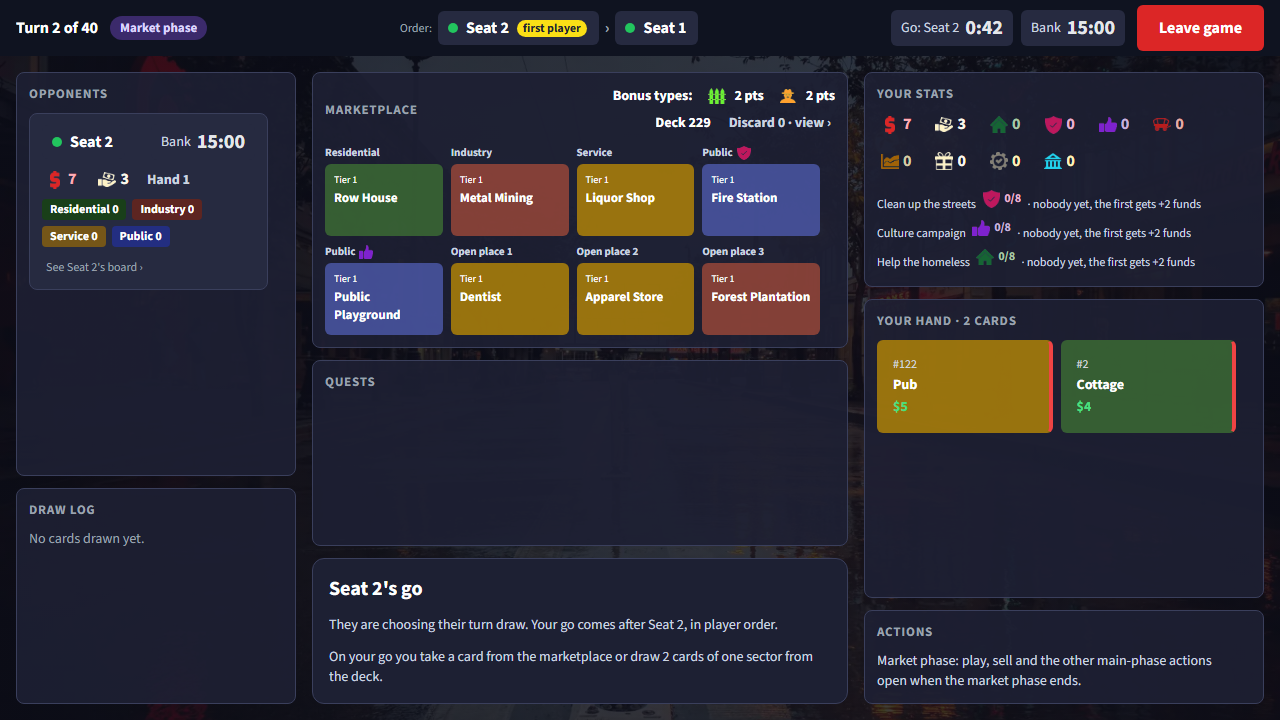
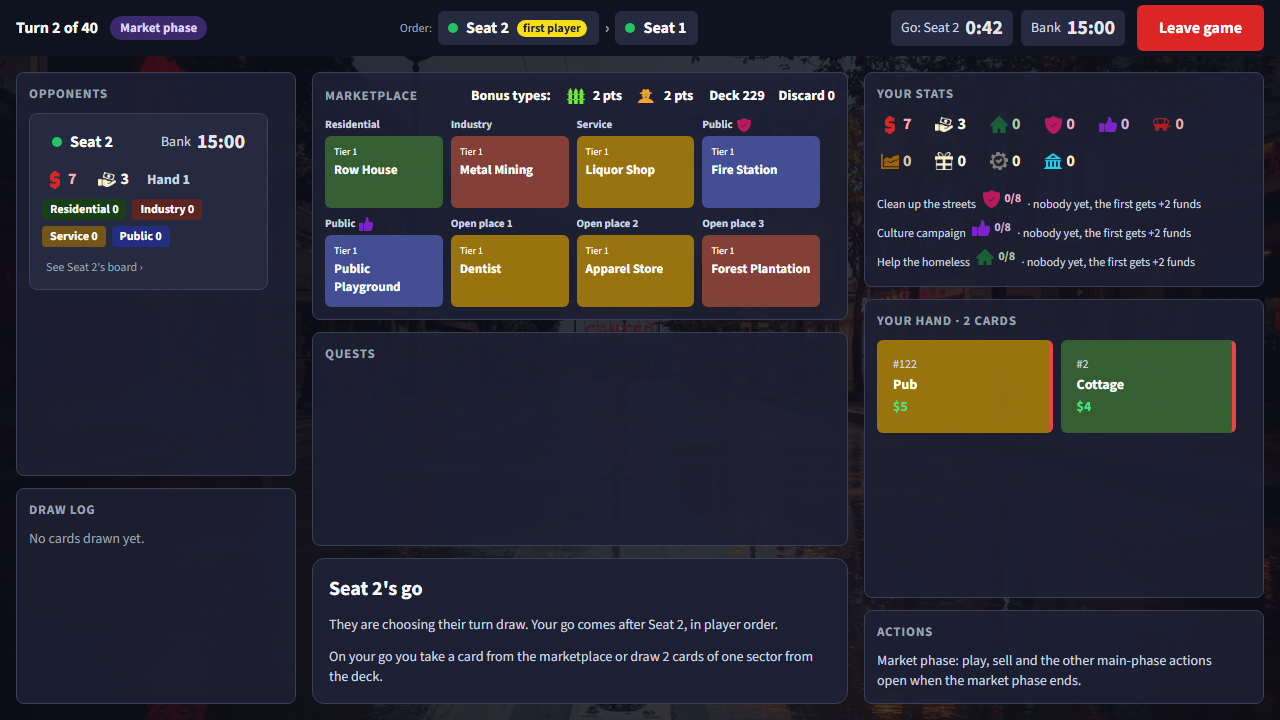
RULES: The discard pile is shown only as a number of cards (M3.2, R17.1, S4.2)

Changed region(s): [[0.2188, 0.1222, 0.6562, 0.55]]

diff --git a/e2e/turnOne.spec.ts b/e2e/turnOne.spec.ts
@@ -1,6 +1,5 @@
 import AxeBuilder from "@axe-core/playwright";
 import { expect, test, type Page } from "@playwright/test";
-import { expectScreenFits } from "./expectScreenFits";
 import { cardsHeldOnce } from "./cardsHeldOnce";
 import { handOf } from "./handOf";
 import { startGame } from "./startGame";
@@ -19,7 +18,7 @@ async function sellFirstCardAndEndTurn(page: Page): Promise<string> {
 test("two players play turn 1 together and never see each other's hands", async ({
   browser,
   viewport,
-}, testInfo) => {
+}) => {
   const size = viewport ?? { width: 1920, height: 1080 };
   const [ann, bea] = await startGame(browser, size, ["Ann", "Bea"]);
   if (ann === undefined || bea === undefined) {
@@ -30,7 +29,7 @@ test("two players play turn 1 together and never see each other's hands", async 
   }
   const annStartingHand = await handOf(ann.page);
   const beaStartingHand = await handOf(bea.page);
-  const annSold = await sellFirstCardAndEndTurn(ann.page);
+  await sellFirstCardAndEndTurn(ann.page);
   const annFramesBeforeTurnEnds = ann.frames.length;
   const beaSold = await sellFirstCardAndEndTurn(bea.page);
   for (const player of [ann, bea]) {
@@ -51,12 +50,9 @@ test("two players play turn 1 together and never see each other's hands", async 
   }
   const marketplace = ann.page.getByRole("region", { name: "Marketplace" });
   await expect(marketplace.getByText(/^Deck \d+$/)).toBeVisible();
-  await marketplace.getByRole("button", { name: /^Discard \d+ · view ›$/ }).click();
-  const discard = ann.page.getByRole("dialog", { name: /^Discard pile/ });
-  await expect(discard).toContainText(annSold);
-  await expect(discard).toContainText(beaSold);
-  await expectScreenFits(ann.page, "discard-pile", testInfo);
-  await discard.getByRole("button", { name: "Close" }).click();
+  await expect(marketplace.getByText(/^Discard \d+$/)).toBeVisible();
+  await expect(marketplace.getByRole("button", { name: /^Discard/ })).toHaveCount(0);
+  expect(ann.frames.some((frame) => frame.includes(`"${beaSold}"`))).toBe(false);
   await ann.page.reload();
   await expect(ann.page.getByRole("heading", { name: "Turn 2" })).toBeVisible();
 });

diff --git a/src/client/screens/game/drawLogAndPiles.test.tsx b/src/client/screens/game/drawLogAndPiles.test.tsx
@@ -1,4 +1,4 @@
-import { fireEvent, render, screen, within } from "@testing-library/react";
+import { render, screen, within } from "@testing-library/react";
 import { describe, expect, it } from "vitest";
 import { gamePageProps } from "../../testing/gamePageProps";
 import { roomUpdateWith } from "../../testing/roomUpdateWith";
@@ -65,26 +65,11 @@ describe("draw log", () => {
 });
 
 describe("deck and discard pile", () => {
-  it("shows the deck count and opens the discard pile", () => {
-    render(
-      <GamePage {...gamePageProps(roomUpdateWith({ deckCount: 112, discard: ["Pub", "Loft"] }))} />,
-    );
+  it("shows the deck and the discard pile as numbers only", () => {
+    render(<GamePage {...gamePageProps(roomUpdateWith({ deckCount: 112, discardCount: 2 }))} />);
     const marketplace = screen.getByRole("region", { name: "Marketplace" });
     expect(within(marketplace).getByText("Deck 112")).toBeDefined();
-    fireEvent.click(within(marketplace).getByRole("button", { name: "Discard 2 · view ›" }));
-    const dialog = screen.getByRole("dialog", { name: "Discard pile · 2 cards" });
-    expect(within(dialog).getByText(/Pub · Service, tier 1/)).toBeDefined();
-    fireEvent.click(within(dialog).getByRole("button", { name: "Close" }));
-    expect(screen.queryByRole("dialog")).toBeNull();
-  });
-
-  it("closes the discard pile with Escape and returns focus to its button", () => {
-    render(<GamePage {...gamePageProps(roomUpdateWith({ discard: ["Pub"] }))} />);
-    const opener = screen.getByRole("button", { name: "Discard 1 · view ›" });
-    fireEvent.click(opener);
-    expect(screen.getByRole("dialog", { name: "Discard pile · 1 card" })).toBeDefined();
-    fireEvent.keyDown(document, { key: "Escape" });
-    expect(screen.queryByRole("dialog")).toBeNull();
-    expect(opener.matches(":focus")).toBe(true);
+    expect(within(marketplace).getByText("Discard 2")).toBeDefined();
+    expect(within(marketplace).queryByRole("button", { name: /Discard/ })).toBeNull();
   });
 });

diff --git a/src/client/screens/game/DeckAndDiscard.tsx b/src/client/screens/game/DeckAndDiscard.tsx
@@ -1,38 +1,15 @@
-import { useRef, useState } from "react";
-import type { CardName } from "../../../shared/catalogue/CardName";
 import styles from "./DeckAndDiscard.module.css";
-import { DiscardPileDialog } from "./DiscardPileDialog";
 
 type Props = {
   readonly deckCount: number;
-  readonly discard: ReadonlyArray<CardName>;
+  readonly discardCount: number;
 };
 
-export function DeckAndDiscard({ deckCount, discard }: Props) {
-  const [isDiscardOpen, setIsDiscardOpen] = useState(false);
-  const discardButton = useRef<HTMLButtonElement>(null);
+export function DeckAndDiscard({ deckCount, discardCount }: Props) {
   return (
     <div className={styles["piles"]}>
       <span>Deck {deckCount}</span>
-      <button
-        ref={discardButton}
-        className={styles["discardLink"]}
-        type="button"
-        onClick={() => {
-          setIsDiscardOpen(true);
-        }}
-      >
-        Discard {discard.length} · view ›
-      </button>
-      {isDiscardOpen ? (
-        <DiscardPileDialog
-          discard={discard}
-          onClose={() => {
-            setIsDiscardOpen(false);
-            discardButton.current?.focus();
-          }}
-        />
-      ) : null}
+      <span>Discard {discardCount}</span>
     </div>
   );
 }

diff --git a/tools/simulator/shownPilesViolations.ts b/tools/simulator/shownPilesViolations.ts
@@ -29,19 +29,17 @@ export function shownPilesViolations(
     (card) => !state.mainPhaseStart.discard.includes(card) || shuffledAway.includes(card),
   ).length;
   const expectedDeckCount = state.mainPhaseStart.deckCount + shuffledAway.length - drawnFromDeck;
-  const ownCards = [...(own?.hand ?? []), ...(own?.city ?? [])];
   return [
-    ...(JSON.stringify(view.discard) === JSON.stringify(expectedDiscard)
+    ...(view.discardCount === expectedDiscard.length
       ? []
-      : [`${label} is shown a discard pile that R5.5 does not give`]),
+      : [
+          `${label} is shown ${String(view.discardCount)} discard cards, not ${String(expectedDiscard.length)}`,
+        ]),
     ...(view.deckCount === expectedDeckCount
       ? []
       : [
           `${label} is shown ${String(view.deckCount)} deck cards, not ${String(expectedDeckCount)}`,
         ]),
     ...(view.deckCount < 0 ? [`${label} is shown a negative deck count`] : []),
-    ...(view.discard.some((card) => ownCards.includes(card))
-      ? [`${label} is shown one of its own cards in the discard pile`]
-      : []),
   ];
 }

diff --git a/src/rules/hiddenDuringMainPhase.test.ts b/src/rules/hiddenDuringMainPhase.test.ts
@@ -129,9 +129,9 @@ describe("what other players see during the main phase", () => {
     const after = played(gameWith(["Pub"], ["Landfill", "Library", "Dorm"]), [
       { type: "play_card", seat: 1, card: "Liquor Shop" },
     ]);
-    expect(viewFor(after, 1).discard).toEqual(["Dorm"]);
+    expect(viewFor(after, 1).discardCount).toBe(1);
     expect(viewFor(after, 1).deckCount).toBe(2);
-    expect(viewFor(after, 2).discard).toEqual(["Landfill", "Library", "Dorm"]);
+    expect(viewFor(after, 2).discardCount).toBe(3);
     expect(viewFor(after, 2).deckCount).toBe(1);
   });
 
@@ -165,7 +165,7 @@ describe("what other players see during the main phase", () => {
     const ownSeat = mine.seats.find((seat) => seat.kind === "own");
     const drawn = ownSeat?.kind === "own" ? ownSeat.hand : [];
     expect(mine.deckCount).toBe(0);
-    expect(mine.discard).toHaveLength(1);
-    expect(mine.discard.some((card) => drawn.includes(card))).toBe(false);
+    expect(mine.discardCount).toBe(1);
+    expect(drawn).toHaveLength(1);
   });
 });

diff --git a/tools/harness-runner/engine/viewThen.ts b/tools/harness-runner/engine/viewThen.ts
@@ -26,6 +26,8 @@ function isHidden(name: string, text: string, state: GameState): boolean {
   switch (name) {
     case "deck_order":
       return !state.deck.some((card) => text.includes(JSON.stringify(card)));
+    case "discard_cards":
+      return !state.discard.some((card) => text.includes(JSON.stringify(card)));
     case "seed":
       return !text.includes('"seed":');
     default:
@@ -71,7 +73,7 @@ export function viewThen(
   return {
     seat: view.seat,
     deck_count: view.deckCount,
-    discard: view.discard,
+    discard_count: view.discardCount,
     contains: namesOf(asked["contains"]).filter((name) => text.includes(JSON.stringify(name))),
     hides: namesOf(asked["hides"]).filter((name) => isHidden(name, text, state)),
     log_contains: matchingLogEntries(view.drawLog, asked["log_contains"]),

diff --git a/src/client/screens/game/DeckAndDiscard.module.css b/src/client/screens/game/DeckAndDiscard.module.css
@@ -5,37 +5,3 @@
   font-size: var(--font-size-sm);
   font-weight: var(--font-weight-bold);
 }
-
-.discardLink {
-  min-height: 24px;
-  padding: 0 var(--space-xs);
-  border: none;
-  background: none;
-  color: var(--color-text-secondary);
-  font: inherit;
-  cursor: pointer;
-}
-
-.discardLink:hover {
-  color: var(--color-text-primary);
-  text-decoration: underline;
-}
-
-.discardLink:focus-visible {
-  outline: 2px solid var(--color-focus-ring);
-}
-
-.discard {
-  display: grid;
-  grid-template-columns: repeat(2, minmax(0, 1fr));
-  gap: var(--space-xs) var(--space-lg);
-  margin: 0;
-  padding: 0;
-  list-style: none;
-  font-size: var(--font-size-sm);
-}
-
-.close {
-  display: flex;
-  justify-content: flex-end;
-}

diff --git a/src/client/screens/game/marketPhase.test.tsx b/src/client/screens/game/marketPhase.test.tsx
@@ -65,11 +65,11 @@ describe("the marketplace", () => {
   });
 
   it("shows the bonus types with their points, the deck and the discard pile", () => {
-    showGame({ deckCount: 112, discard: ["Pub"] });
+    showGame({ deckCount: 112, discardCount: 1 });
     const panel = within(screen.getByRole("region", { name: "Marketplace" }));
     expect(panel.getByText(/Bonus types/).textContent).toBe("Bonus types:Farm3 ptsLuxury2 pts");
     expect(panel.getByText("Deck 112")).toBeDefined();
-    expect(panel.getByRole("button", { name: "Discard 1 · view ›" })).toBeDefined();
+    expect(panel.getByText("Discard 1")).toBeDefined();
   });
 });
 

diff --git a/src/shared/PlayerView.ts b/src/shared/PlayerView.ts
@@ -1,4 +1,3 @@
-import type { CardName } from "./catalogue/CardName";
 import type { TypeName } from "./catalogue/TypeName";
 import type { DrawLogEntry } from "./DrawLogEntry";
 import type { ProjectName } from "./ProjectName";
@@ -18,7 +17,7 @@ export type PlayerView = {
   readonly marketGo: SeatNumber | null;
   readonly seats: ReadonlyArray<OwnSeatView | OtherSeatView>;
   readonly deckCount: number;
-  readonly discard: ReadonlyArray<CardName>;
+  readonly discardCount: number;
   readonly marketplace: ReadonlyArray<MarketplaceSlot>;
   readonly quests: ReadonlyArray<QuestPlaceView>;
   readonly bonusTypes: ReadonlyArray<TypeName>;

diff --git a/src/client/screens/game/MarketplacePanel.tsx b/src/client/screens/game/MarketplacePanel.tsx
@@ -20,7 +20,7 @@ export function MarketplacePanel({ view, isYourGo, onTake }: Props) {
         aside={
           <span className={styles["header"]}>
             <BonusTypesList bonusTypes={view.bonusTypes} />
-            <DeckAndDiscard deckCount={view.deckCount} discard={view.discard} />
+            <DeckAndDiscard deckCount={view.deckCount} discardCount={view.discardCount} />
           </span>
         }
       >

diff --git a/src/rules/viewFor.ts b/src/rules/viewFor.ts
@@ -92,7 +92,7 @@ export function viewFor(state: GameState, viewer: SeatNumber): PlayerView {
       seat.seat === viewer ? ownSeatView(state, seat) : otherSeatView(state, seat, viewer),
     ),
     deckCount: piles.deckCount,
-    discard: piles.discard,
+    discardCount: piles.discard.length,
     marketplace: state.marketplace,
     quests: questPlacesShownTo(state, viewer),
     bonusTypes: state.bonusTypes,

diff --git a/tools/harness-runner/harness.test.ts b/tools/harness-runner/harness.test.ts
@@ -12,8 +12,8 @@ const SIMULATED_GAME_COUNT =
 const OUTCOME = await runHarness(DRIVERS, SIMULATED_GAME_COUNT);
 
 describe("the harness", () => {
-  it("reads all 429 scenarios", () => {
-    expect(OUTCOME.run.runs).toHaveLength(429);
+  it("reads all 433 scenarios", () => {
+    expect(OUTCOME.run.runs).toHaveLength(433);
   });
 
   it("simulates every game it was asked for", () => {
